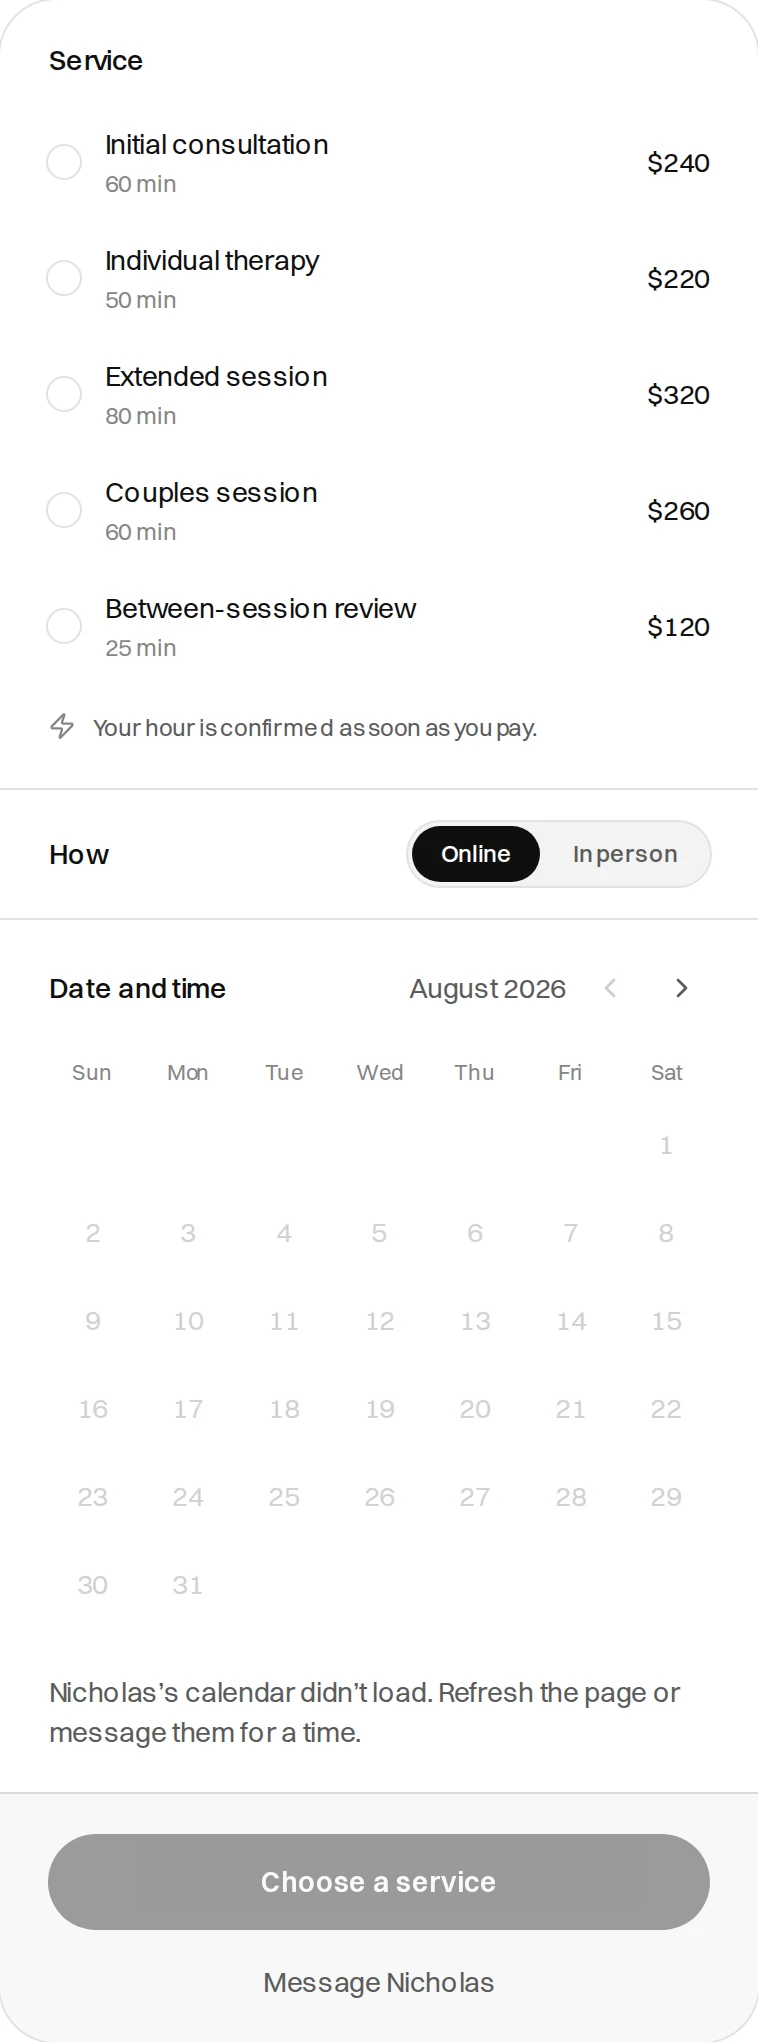
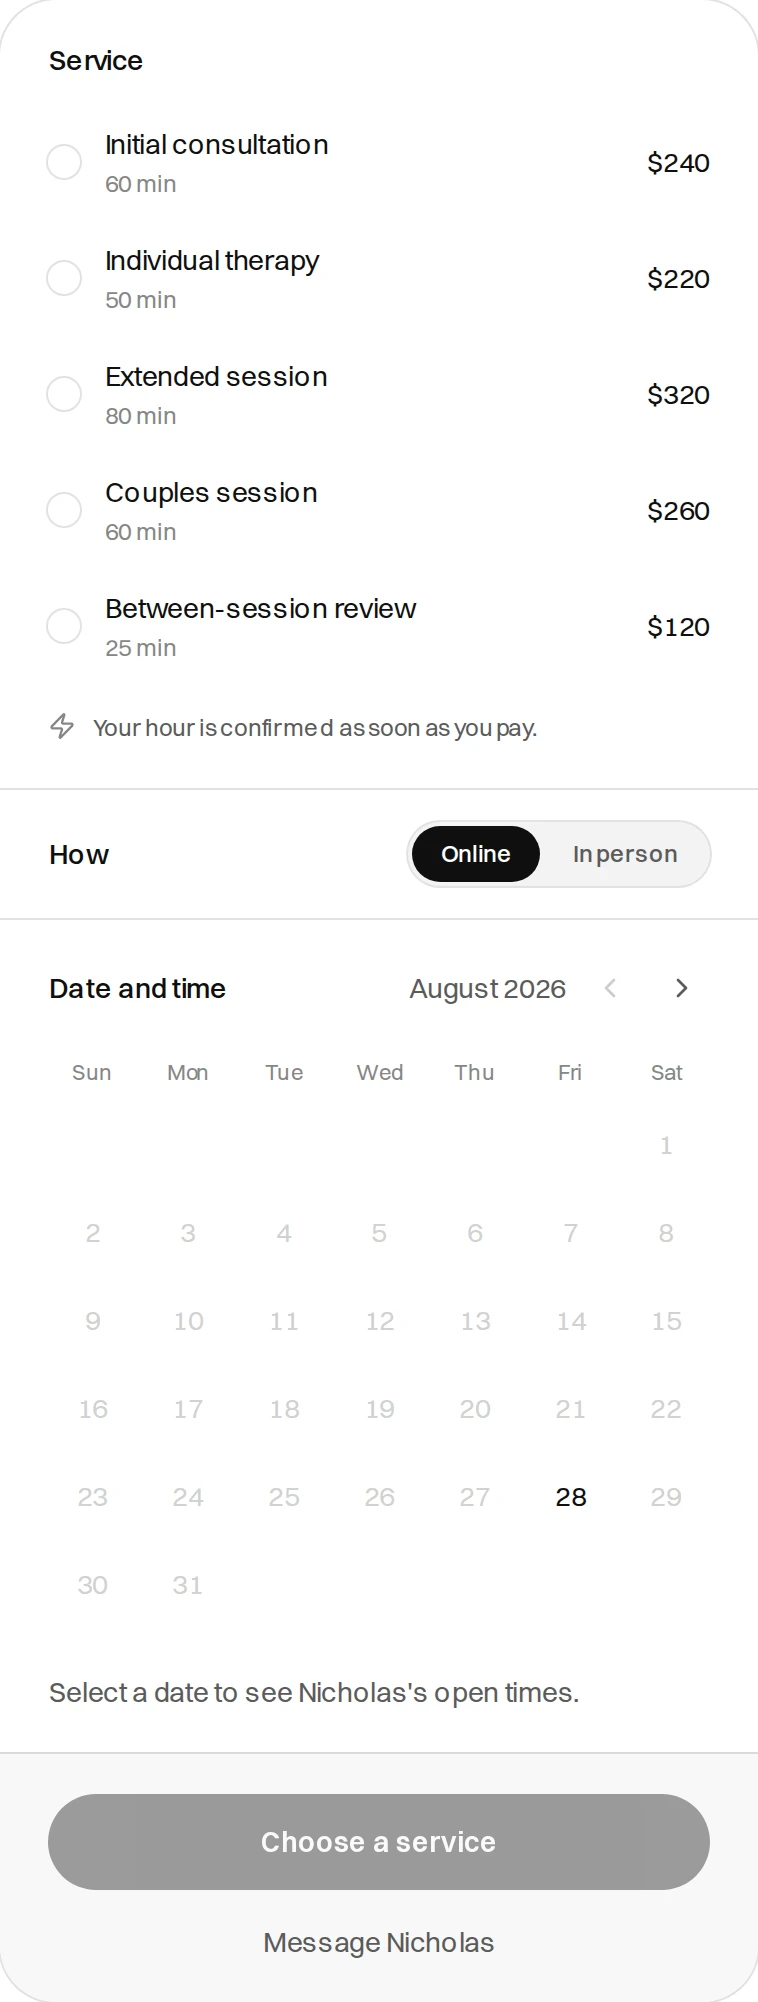
Refresh docs screenshots and fee/cancellation accuracy
Regenerate Playwright shots against the local app, hide the first-appointment offer modal, and rewrite availability fetches so the booking panel loads. Update match, directory, and offer-code copy to match live product. Fee and cancellation numbers were rechecked against source and left unchanged.

diff --git a/scripts/screenshots.ts b/scripts/screenshots.ts
@@ -48,6 +48,9 @@ async function settle(page: Page) {
       }
       /* The announcement bar is scheduled content and dates the image. */
       [data-announcement], [data-testid="announcement"] { display: none !important; }
+      /* The first-appointment offer's docked circle. The drawer is closed in
+       * localStorage and hidden in the evaluate below. */
+      button[aria-label$="off your first appointment"] { display: none !important; }
       /*
        * The dev server's error overlay. It appears on a transient HMR hiccup
        * with nothing wrong with the page underneath, and being a shadow host it
@@ -60,6 +63,17 @@ async function settle(page: Page) {
   // The live banner is a butter strip immediately above the sticky nav and
   // has never carried a data attribute, so the stylesheet rule above misses it.
   await page.evaluate(() => {
+    try {
+      // Any stored answer closes the door; `dismissed:` is one of them.
+      window.localStorage.setItem("ot.offer40", "dismissed:docs-screenshots");
+    } catch {
+      // Private mode or a page that hasn't finished attaching storage.
+    }
+    for (const dialog of document.querySelectorAll('[role="dialog"]')) {
+      if (dialog instanceof HTMLElement && dialog.textContent?.includes("off, on us")) {
+        dialog.style.display = "none";
+      }
+    }
     for (const nav of document.querySelectorAll("nav")) {
       const previous = nav.previousElementSibling;
       if (previous instanceof HTMLElement && previous.classList.contains("bg-butter")) {
@@ -197,6 +211,31 @@ async function signIn(page: Page, who: { email: string; password: string }, stat
   await page.context().storageState({ path: state });
 }
 
+test.beforeEach(async ({ page }) => {
+  // Close the offer before the first navigation, or public shots that wait
+  // long enough for the floor-then-engagement timer publish the drawer.
+  await page.addInitScript(() => {
+    try {
+      window.localStorage.setItem("ot.offer40", "dismissed:docs-screenshots");
+    } catch {
+      // Storage can be unavailable on the first about:blank.
+    }
+  });
+
+  // The browser bundle calls `api.opentherapy.app` for published hours. Local
+  // Vite and Wrangler both need those hits to land on the seeded Worker.
+  const appOrigin = process.env["DOCS_APP_ORIGIN"] ?? "http://localhost:8080";
+  await page.route("https://api.opentherapy.app/api/availability/**", async (route) => {
+    const remote = new URL(route.request().url());
+    const local = await page.request.get(`${appOrigin}${remote.pathname}${remote.search}`);
+    await route.fulfill({
+      status: local.status(),
+      contentType: "application/json",
+      body: await local.text(),
+    });
+  });
+});
+
 test.describe("sign in", () => {
   test("as the client", async ({ page }) => {
     await signIn(page, CLIENT, CLIENT_STATE);
@@ -246,6 +285,12 @@ test.describe("public", () => {
   test("profile-booking-panel", async ({ page }) => {
     await page.goto("/therapists/nicholas-carlton");
     await settle(page);
+    // The availability grid is a second request. Photographing before it
+    // returns published the error line as documentation.
+    await expect(
+      page.getByText("calendar didn't load"),
+      "booking panel still showing the failed-availability state",
+    ).toHaveCount(0, { timeout: 20_000 });
     // The booking card, not the whole `aside` — the column also carries the
     // waitlist prompt and a trust list, and runs to 3,600px.
     await shot(page, "profile-booking-panel", { clip: "aside > div > div" });
